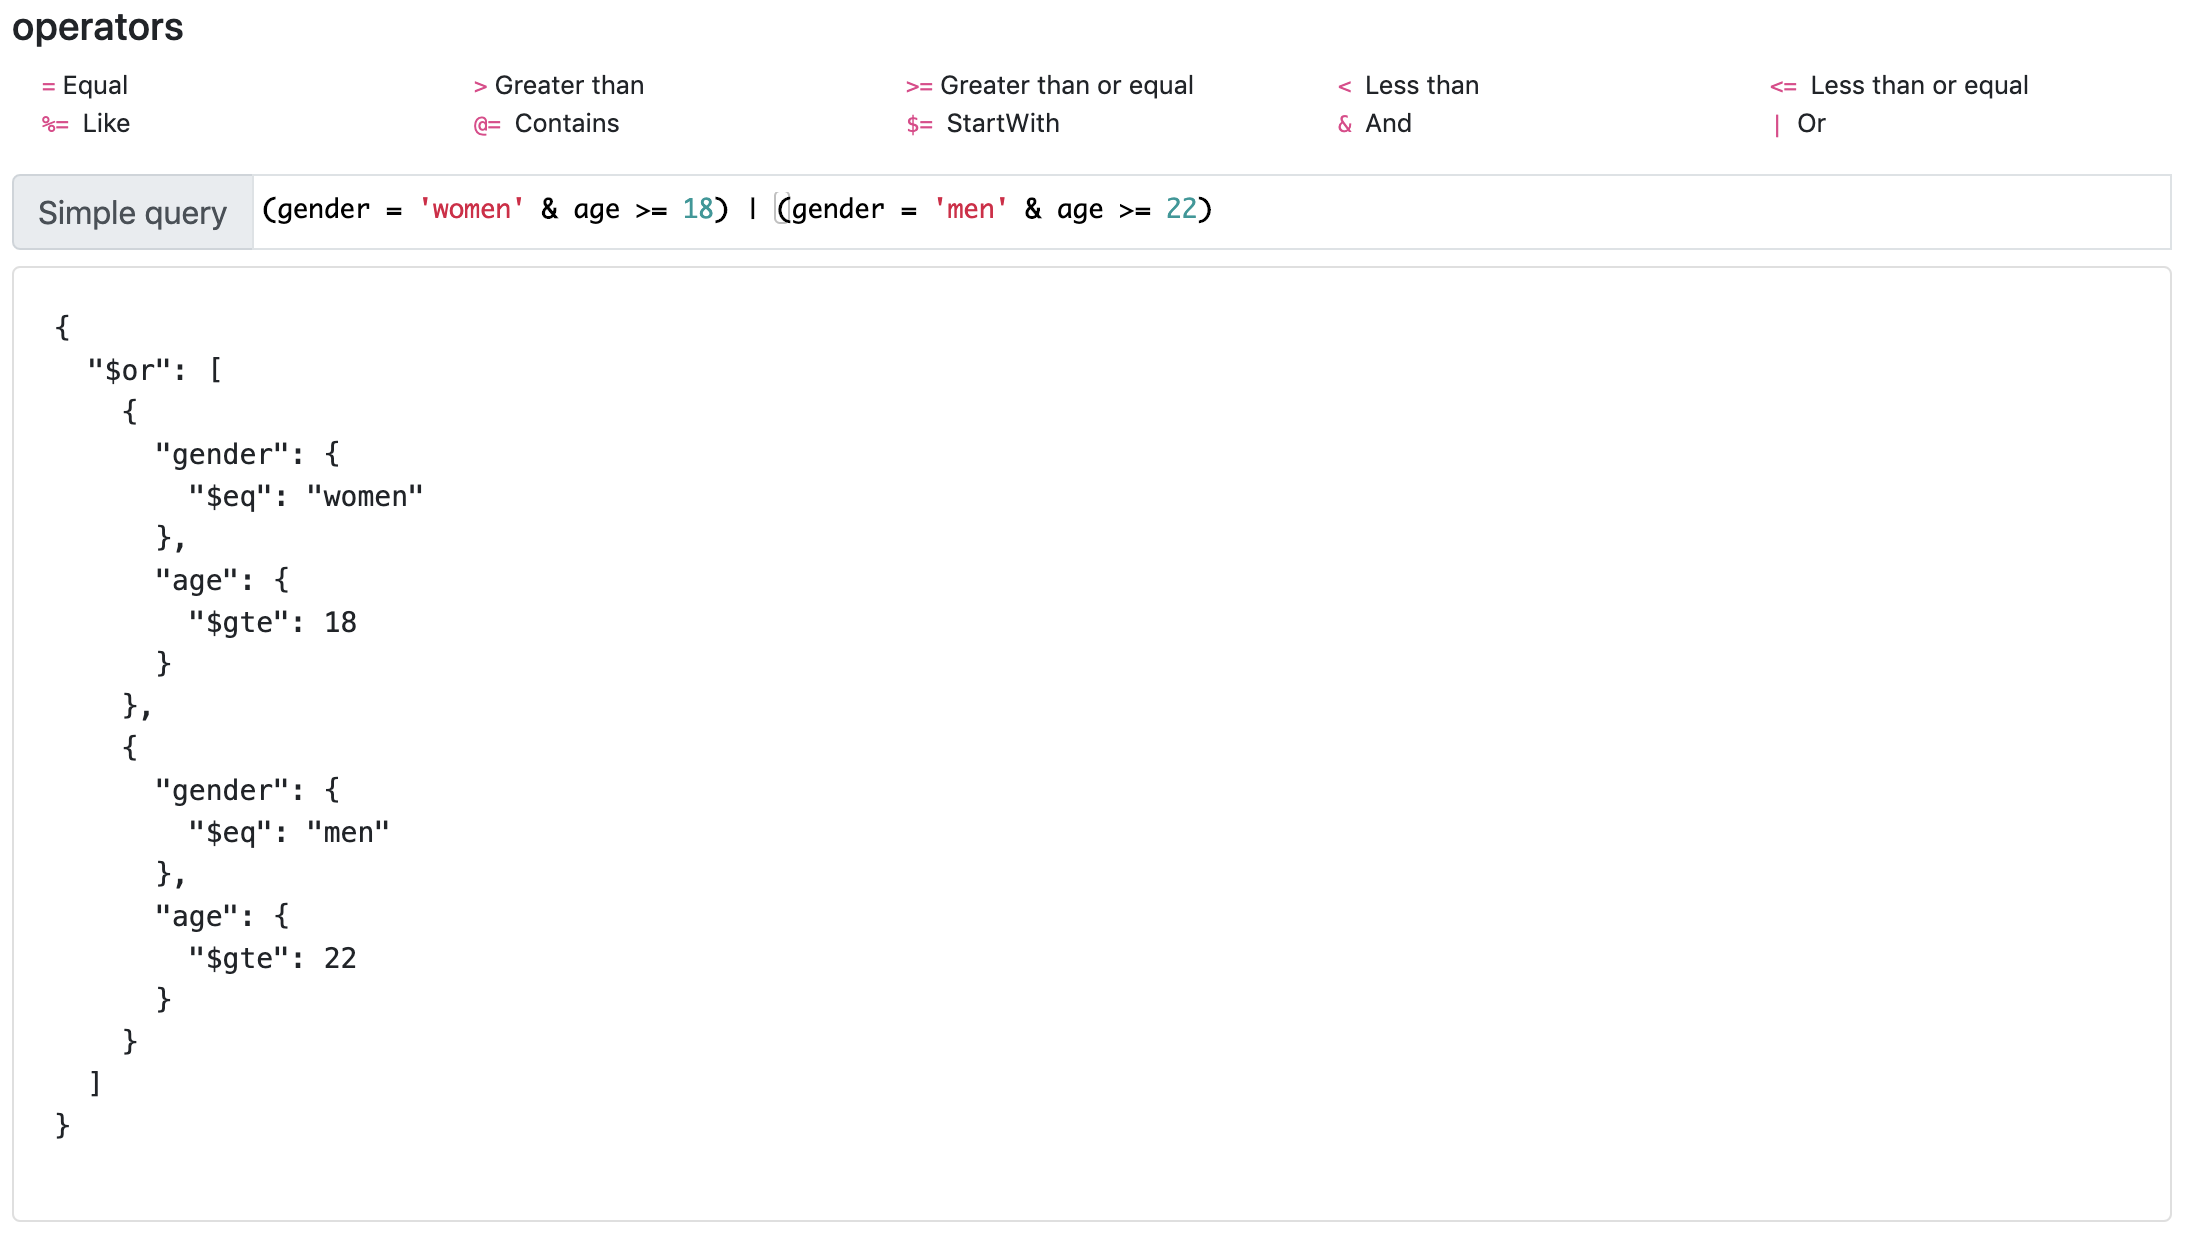
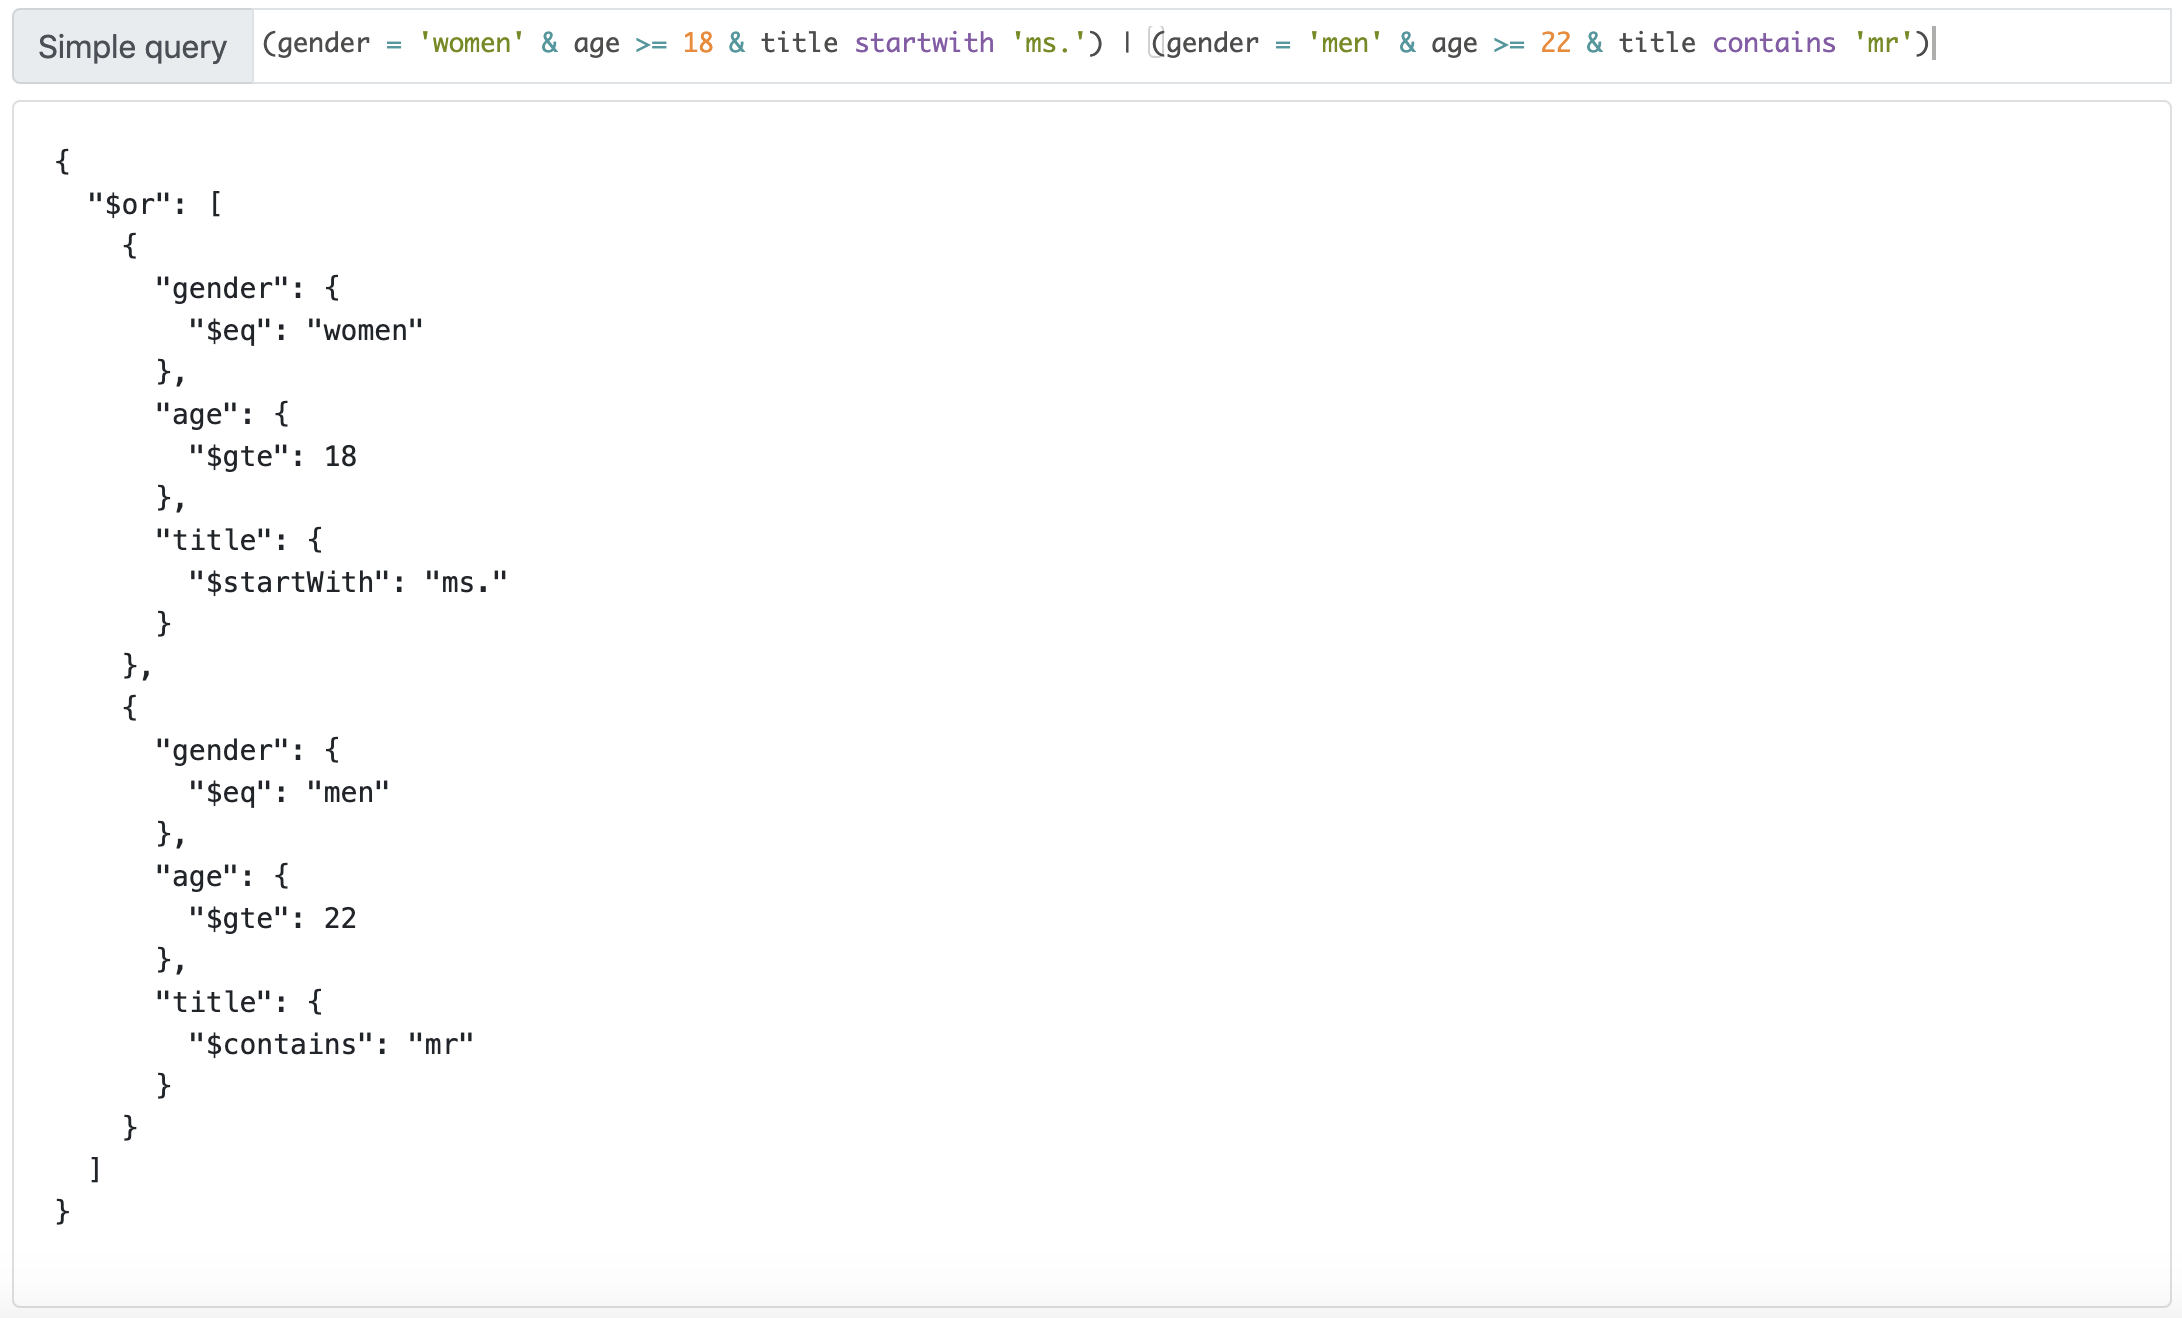
Add contains/startwith/like keywords

diff --git a/src/index.jsx b/src/index.jsx
@@ -3,7 +3,8 @@ import { func , string, bool} from 'prop-types';
 import * as PEG from 'pegjs';
 import grammar from './gramma.pegjs';
 import 'brace';
-import 'brace/theme/github';
+import 'brace/theme/tomorrow';
+
 //import ace from 'ace-builds';
 import SimpleQueryMode from './simpleQuery.mode';
 
@@ -40,7 +41,7 @@ class QueryBox extends React.PureComponent {
             highlightActiveLine: false,
             printMargin: false,
             showGutter: false,
-            theme: "ace/theme/github",
+            theme: "ace/theme/tomorrow",
             fontSize: 13,
         });
         this.editor().commands.addCommand({

diff --git a/src/simpleQuery.mode.js b/src/simpleQuery.mode.js
@@ -39,7 +39,7 @@ export class SimpleQueryRules extends window.ace.acequire("ace/mode/text_highlig
                 regex : "[a-zA-Z_$][a-zA-Z0-9_$]*\\b"
             }, {
                 token : "keyword.operator",
-                regex : "\\&|\\||<=|=>|==|!=|<>|="
+                regex : "\\&|\\|>|>=|<|<=|=|%=|@=|\\$="
             }, {
                 token : "paren.lparen",
                 regex : "[\\(]"

diff --git a/src/example/App.jsx b/src/example/App.jsx
@@ -6,7 +6,7 @@ import './App.scss';
 class App extends React.Component {
     state = {
         result: ``,
-        queryText: "(gender = 'women' & age >= 18) | (gender = 'men' & age >= 22)"
+        queryText: "(gender = 'women' & age >= 18 & title startwith 'ms.') | (gender = 'men' & age >= 22 & title contains 'mr')"
 
     }
    

diff --git a/README.md b/README.md
@@ -2,20 +2,28 @@
 A react-text-box component which will transform simple expression as free-text to object
 ![Example](/assets/simple-query-example.png)
 
-### Supported operators
+### Operators
 
-|Key|Meaning|
-|----|-------|
-|`=` | Equal|
-|`>` | Greater than|
-|`>=`| Greater than or equal|
-|`<` | Less than|
-|`<=`| Less than or equal|
-|`%=`| Like|
-|`@=`| Contains|
-|`$=`| StartWith|
-|`&` | And|
-|`|` | Or|
+|Operator   |Meaning                | Property Name  |
+|-----------|-----------------------| ---------------|
+|`=`        | Equal                 | $eq            |
+|`>`        | Greater than          | $gt            |
+|`>=`       | Greater than or equal | $gte           |
+|`<`        | Less than             | $lt            |
+|`<=`       | Less than or equal    | $lte           |
+|`%=`       | Like                  | $like          |
+|`@=`       | Contains              | $contains      |
+|`$=`       | StartWith             | $startWith     |
+|`&`        | And                   | $and           |
+|`|`        | Or                    | $or            |
+
+### Keywords
+|Keyword|Meaning        | Property Name  |
+|-----------|-----------|----------------|
+|like       |Like       | $like          |
+|startwith  |Start With | $startWith     |
+|contains   |Contains   | $contains      |
+
 
 ### NPM Install & use
 ``npm i joy-query-box``
